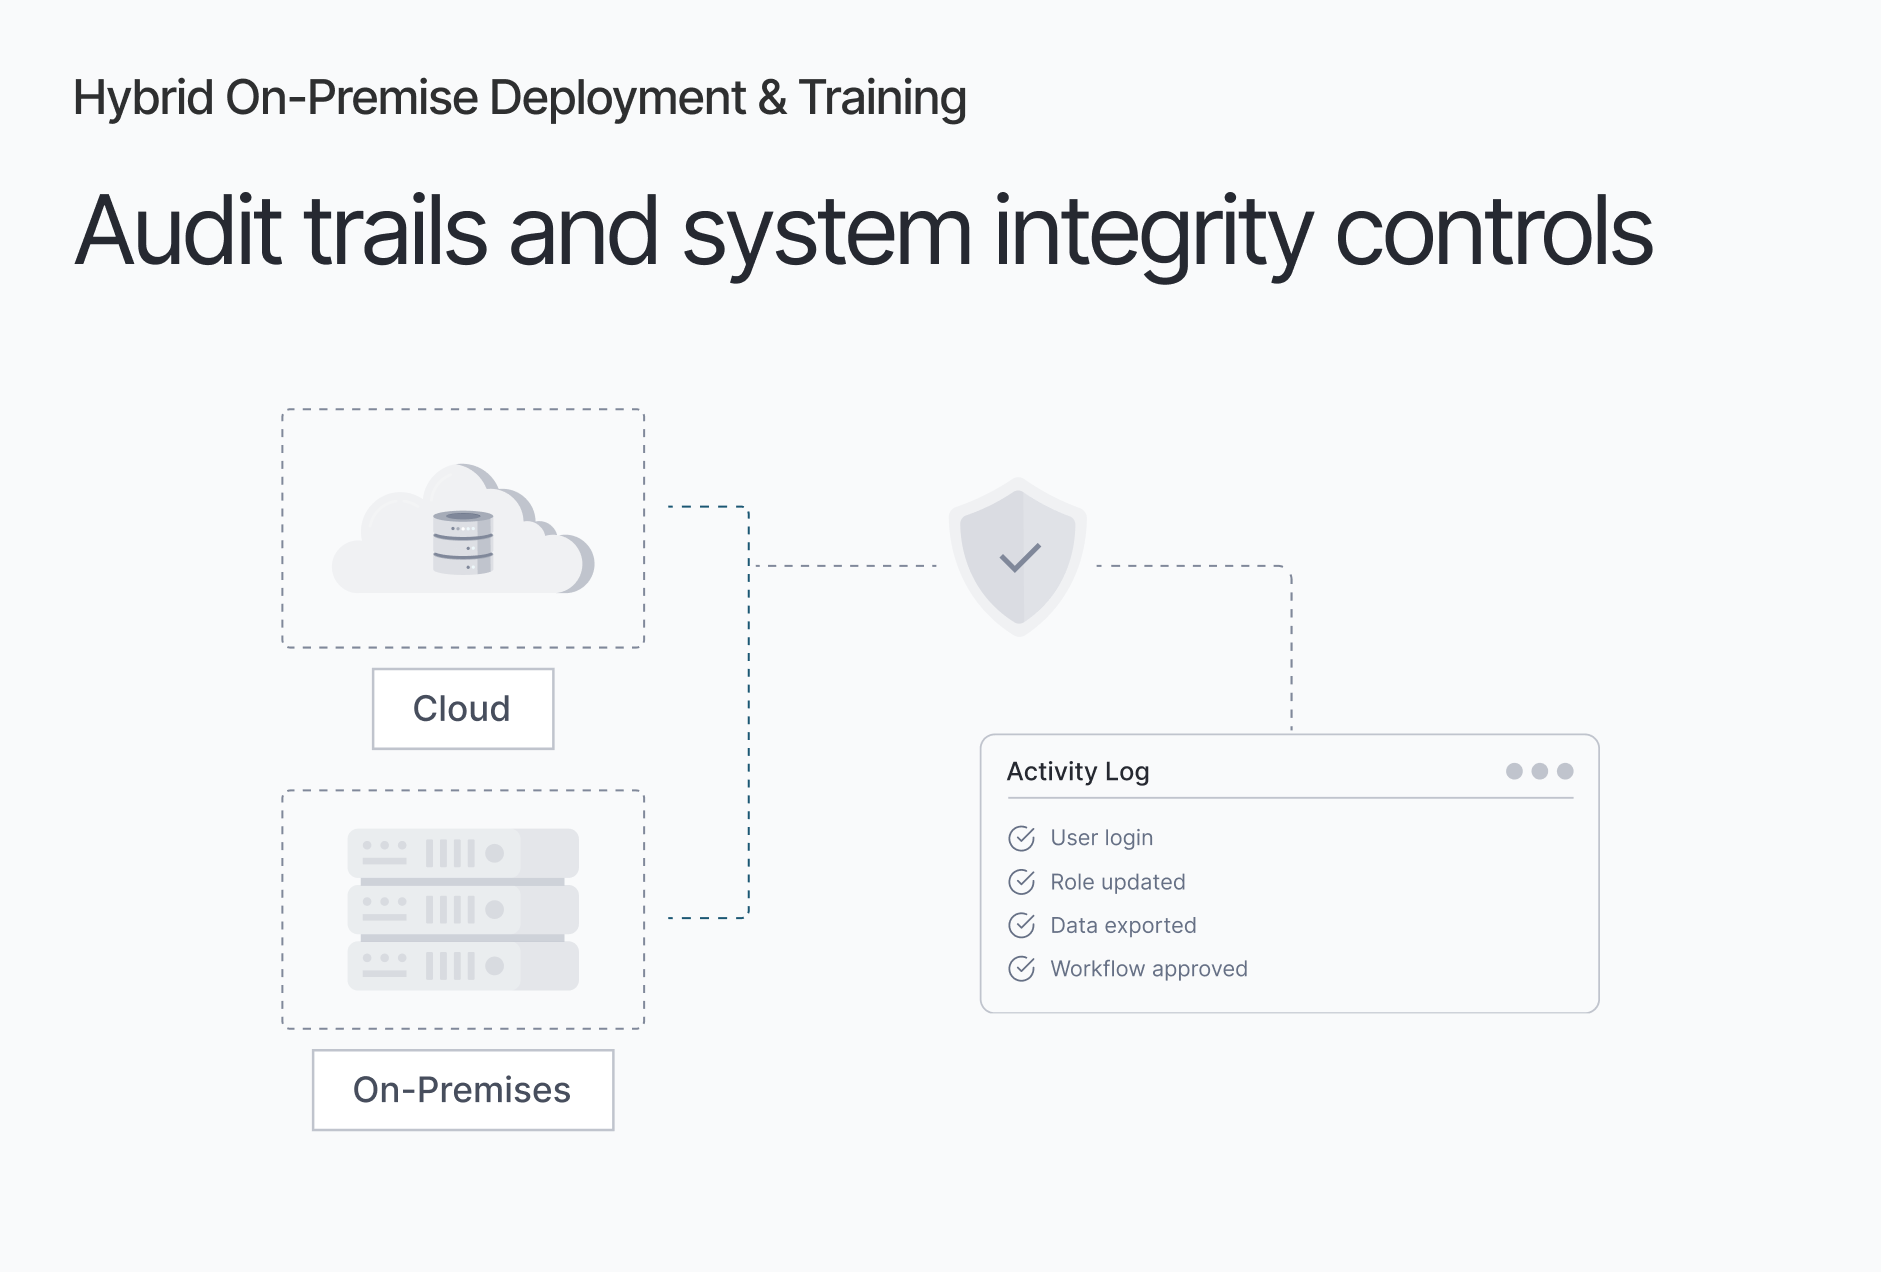
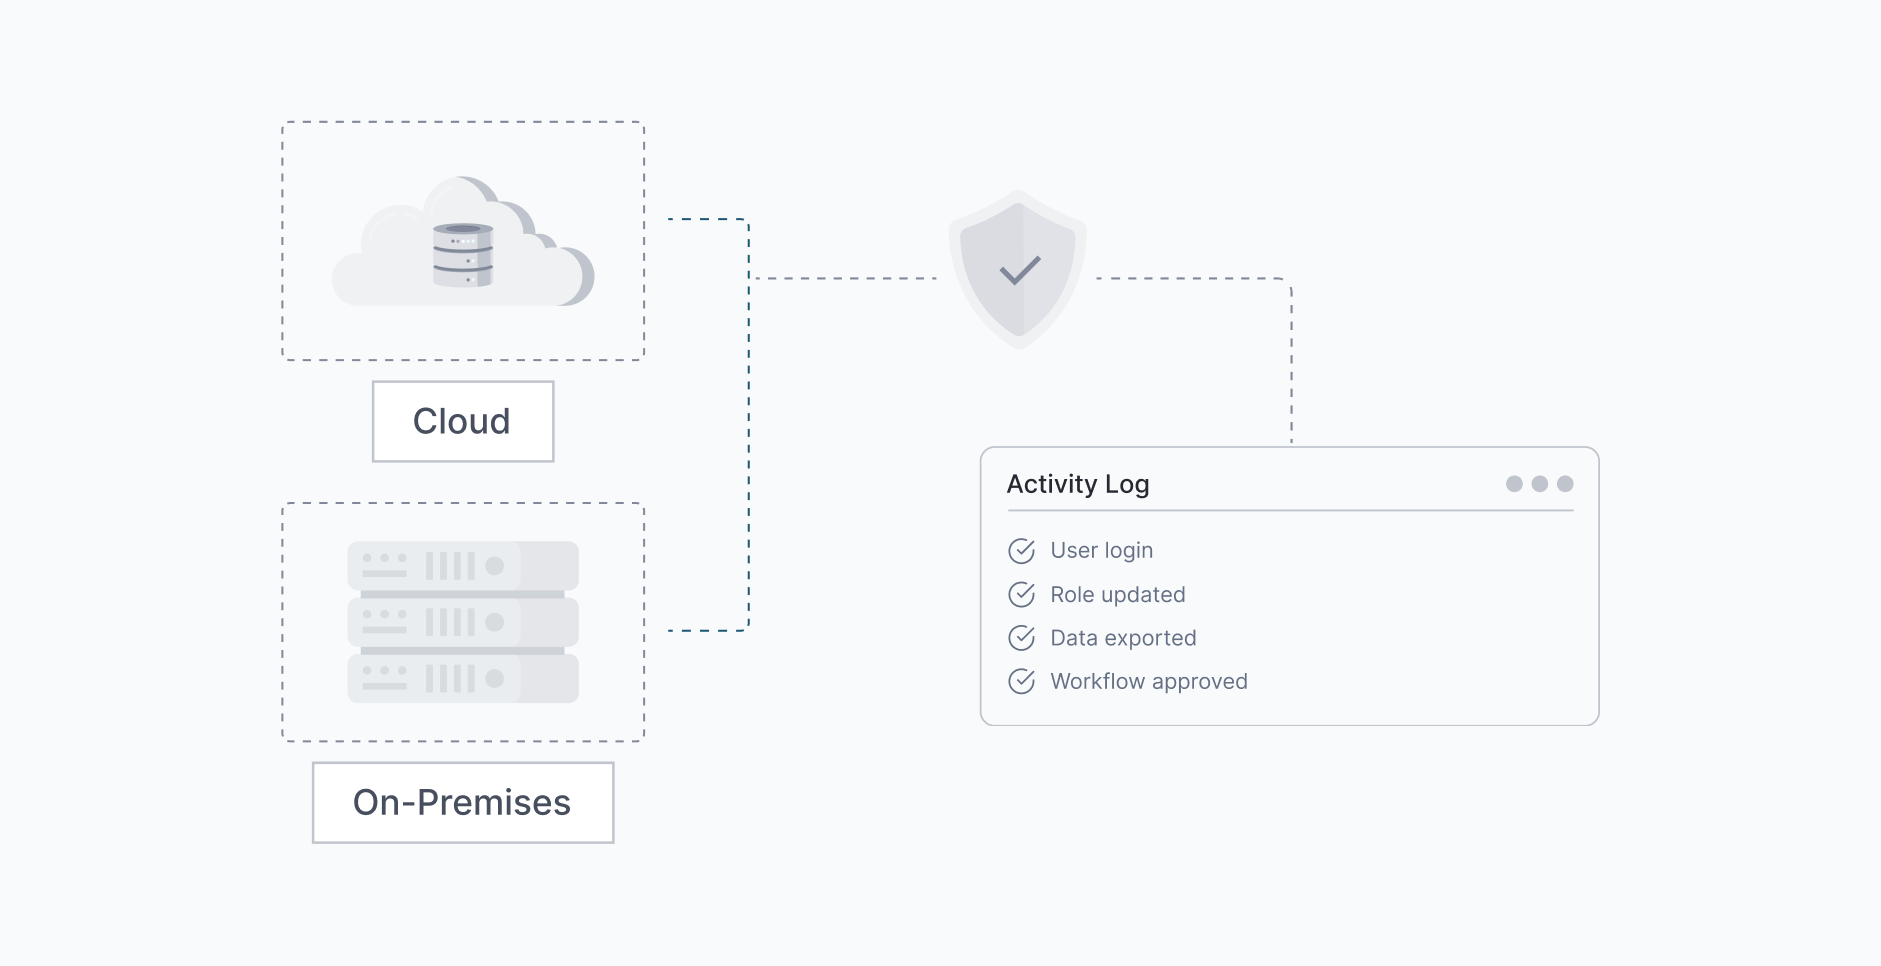
Fixed homepage images

diff --git a/components/sections/workstat/moduleSection.tsx b/components/sections/workstat/moduleSection.tsx
@@ -1,46 +1,95 @@
 import Image, { StaticImageData } from "next/image";
-import hris from "@/public/images/hris2.png";
-import ats from "@/public/images/ats.png";
-import timestat from "@/public/images/timestat.png";
-import paystat from "@/public/images/paystat.png";
-import performance from "@/public/images/performance.png";
-import leave from "@/public/images/leave.png";
-import training from "@/public/images/training.png";
-import organogram from "@/public/images/organogram.png";
-import employee from "@/public/images/employee.png";
+import image1 from "@/public/images/image1.png";
+import image2 from "@/public/images/image2.png";
+import image3 from "@/public/images/image3.png";
+import image4 from "@/public/images/image4.png";
+import image5 from "@/public/images/image5.png";
+import image6 from "@/public/images/image6.png";
+import image7 from "@/public/images/image7.png";
+import image8 from "@/public/images/image8.png";
+import image9 from "@/public/images/image9.png";
 
 type Module = {
+  title: string;
+  description: string;
   image: StaticImageData;
+  width: number;
+  height: number;
 };
 
 const modules: Module[] = [
   {
-    image: hris,
+    title: "Employee Management (HRIS)",
+    description:
+      "Maintain complete employee records, manage onboarding and offboarding, and organize your workforce with structured data and workflows.",
+    image: image1,
+    width: 147,
+    height: 147,
   },
   {
-    image: ats,
+    title: "Recruitment (ATS)",
+    description:
+      "Create job postings, track candidates, manage interviews, and streamline hiring from application to onboarding.",
+    image: image2,
+    width: 137,
+    height: 137,
   },
   {
-    image: timestat,
+    title: "Time & Attendance (Timestat)",
+    description:
+      "Track employee attendance, shifts, and working hours with real-time visibility and structured controls.",
+    image: image3,
+    width: 109,
+    height: 109,
   },
   {
-    image: paystat,
+    title: "Payroll Processing (Paystat)",
+    description:
+      "Automate payroll calculations, manage compensation, and ensure compliance with structured payroll workflows.",
+    image: image4,
+    width: 109,
+    height: 109,
   },
 
   {
-    image: performance,
+    title: "Performance Management",
+    description:
+      "Track employee performance, evaluate progress, and support growth with measurable insights.",
+    image: image5,
+    width: 148,
+    height: 148,
   },
   {
-    image: leave,
+    title: "Leave & Holiday Management",
+    description:
+      "Manage leave requests, approvals, and employee availability across your organization.",
+    image: image6,
+    width: 173,
+    height: 173,
   },
   {
-    image: training,
+    title: "Learning & Training",
+    description:
+      "Assign training programs, track progress, and support employee development through structured learning systems.",
+    image: image7,
+    width: 182,
+    height: 182,
   },
   {
-    image: organogram,
+    title: "Organogram",
+    description:
+      "Visualize and manage your entire organizational structure with a dynamic, interactive hierarchy.",
+    image: image8,
+    width: 168,
+    height: 168,
   },
   {
-    image: employee,
+    title: "Employee Self-Service",
+    description:
+      "Give employees access to their records, payroll, attendance, and communication tools in one place.",
+    image: image9,
+    width: 196,
+    height: 196,
   },
 ];
 
@@ -60,8 +109,22 @@ const ModuleSelection = () => {
       <div className="mt-20 marquee">
         <div className="marquee-track gap-8 px-6">
           {[...modules, ...modules].map((module, index) => (
-            <div key={index}>
-              <Image src={module.image} alt="" className="w-150" />
+            <div
+              key={index}
+              className="flex flex-col justify-between pl-7 pr-20 py-7 bg-(--extra-light)"
+            >
+              <p className="font-medium text-(--charcoal)">{module.title}</p>
+              <h2 className="text-[28px] text-(--dark-gray) max-w-xl">
+                {module.description}
+              </h2>
+              <div className="flex justify-center items-center mt-10">
+                <Image
+                  src={module.image}
+                  width={module.width}
+                  height={module.height}
+                  alt=""
+                />
+              </div>
             </div>
           ))}
         </div>

diff --git a/components/sections/workstat/coreDifferentiatorSection.tsx b/components/sections/workstat/coreDifferentiatorSection.tsx
@@ -73,32 +73,67 @@ const CoreDifferentiatorSection = () => {
           <motion.div
             variants={cardAnimation}
             style={{ willChange: "transform, opacity" }}
-            className="bg-(--extra-light) p-5"
+            className="bg-(--extra-light) p-7 flex flex-col justify-between"
           >
+            <div className="flex flex-col space-y-4">
+              <p className="font-medium text-(--charcoal)">
+                Organizational model
+              </p>
+              <h2 className="text-(--dark-gray) text-[28px]">
+                Hierarchical organizational modeling (Executive → Management →
+                Department)
+              </h2>
+            </div>
+
             <Image src={image1} alt="" />
           </motion.div>
 
           <motion.div
             variants={cardAnimation}
             style={{ willChange: "transform, opacity" }}
-            className="bg-(--extra-light) p-5"
+            className="bg-(--extra-light) p-7 flex flex-col justify-between"
           >
+            <div className="flex flex-col space-y-4">
+              <p className="font-medium text-(--charcoal)">
+                Configurable workflow
+              </p>
+              <h2 className="text-(--dark-gray) text-[28px]">
+                Configurable approval workflows across modules
+              </h2>
+            </div>
+
             <Image src={image2} alt="" />
           </motion.div>
 
           <motion.div
             variants={cardAnimation}
             style={{ willChange: "transform, opacity" }}
-            className="bg-(--extra-light) p-5"
+            className="bg-(--extra-light) p-7 flex flex-col justify-between"
           >
+            <div className="flex flex-col space-y-4">
+              <p className="font-medium text-(--charcoal)">Cloud Deployment</p>
+              <h2 className="text-(--dark-gray) text-[28px]">
+                Centralized employee data powering all features
+              </h2>
+            </div>
+
             <Image src={image3} alt="" />
           </motion.div>
 
           <motion.div
             variants={cardAnimation}
             style={{ willChange: "transform, opacity" }}
-            className="bg-(--extra-light) p-5"
+            className="bg-(--extra-light) p-7 flex flex-col justify-between"
           >
+            <div className="flex flex-col space-y-4">
+              <p className="font-medium text-(--charcoal)">
+                Hybrid On-Premise Deployment & Training
+              </p>
+              <h2 className="text-(--dark-gray) text-[28px]">
+                Audit trails and system integrity controls
+              </h2>
+            </div>
+
             <Image src={image4} alt="" />
           </motion.div>
         </motion.div>

diff --git a/app/globals.css b/app/globals.css
@@ -87,7 +87,7 @@ body {
 .marquee-track {
   display: flex;
   width: max-content;
-  animation: marquee-scroll 40s linear infinite;
+  animation: marquee-scroll 80s linear infinite;
 }
 
 .marquee:hover .marquee-track {
